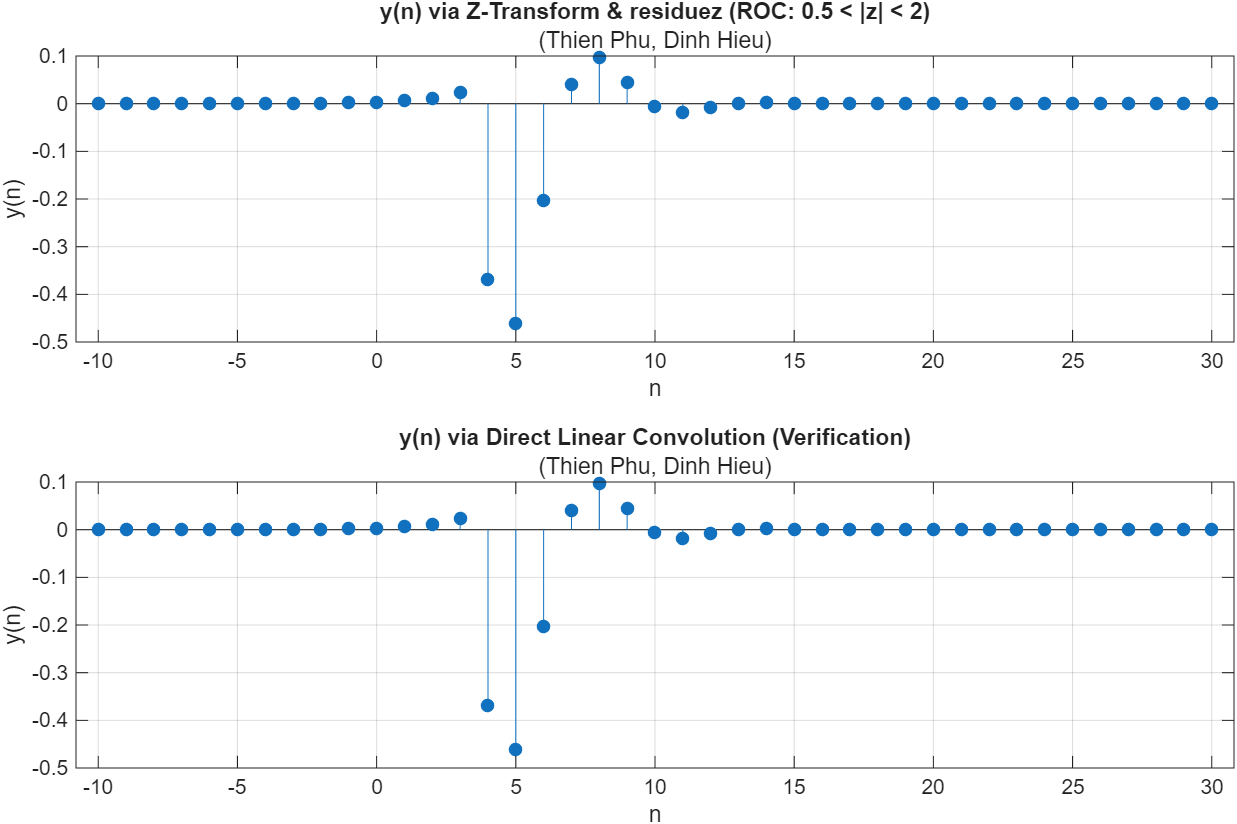
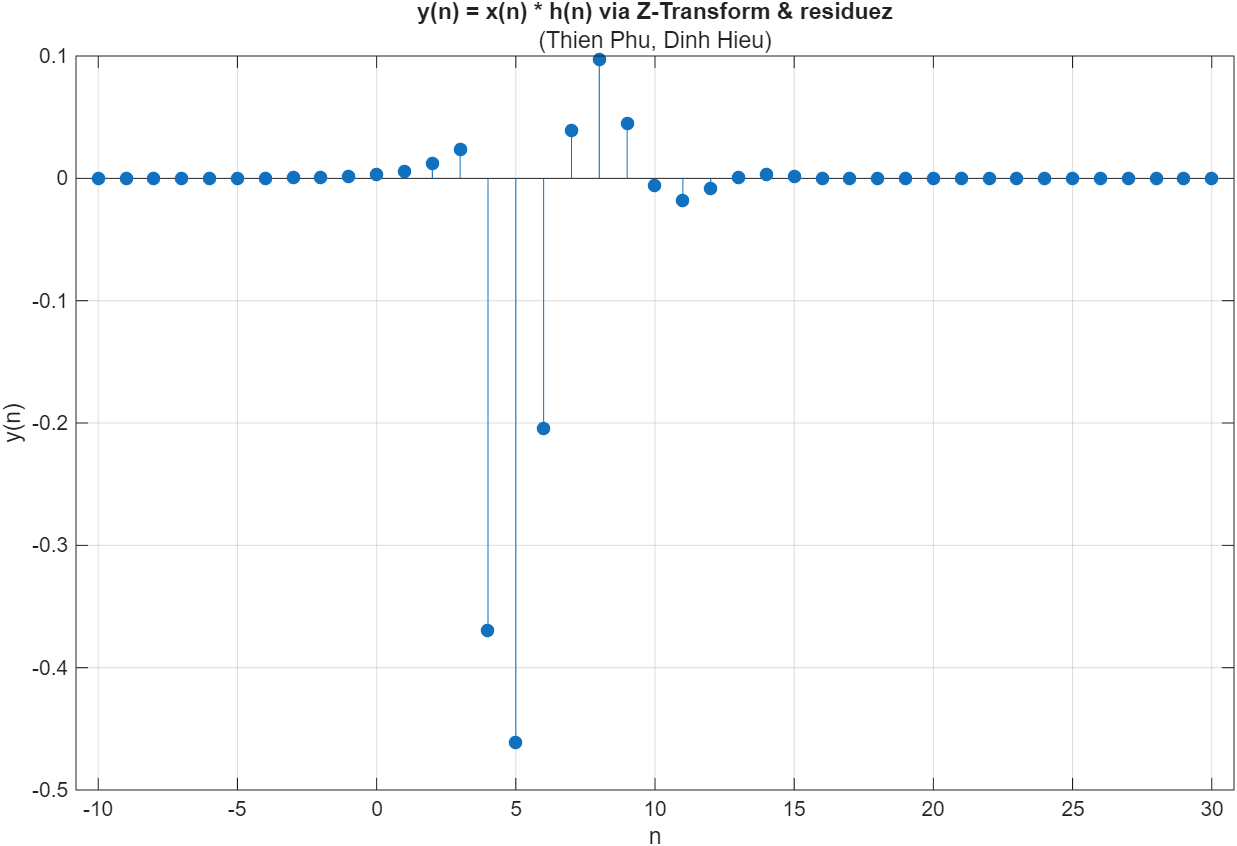
Fixed logic for ex3 and function conv

diff --git a/lab3/Code/lab3_ex3.m b/lab3/Code/lab3_ex3.m
@@ -22,9 +22,9 @@ disp('Direct terms k:');
 disp(k);
 
 n = -10:30;
-y_z = zeros(size(n));
+y = zeros(size(n));
 for m = 1:length(k)
-    y_z = y_z + k(m) * double(n == m - 1);
+    y = y + k(m) * double(n == m - 1);
 end
 
 mult = 1;
@@ -36,41 +36,18 @@ for i = 1:length(p)
     end
     if abs(p(i)) < 1
         if mult == 1
-            y_z = y_z + r(i) * (p(i) .^ n) .* double(n >= 0);
+            y = y + r(i) * (p(i) .^ n) .* double(n >= 0);
         else
-            y_z = y_z + r(i) * (n + 1) .* (p(i) .^ n) .* double(n >= 0);
+            y = y + r(i) * (n + 1) .* (p(i) .^ n) .* double(n >= 0);
         end
     else
-        y_z = y_z - r(i) * (p(i) .^ n) .* double(n <= -1);
+        y = y - r(i) * (p(i) .^ n) .* double(n <= -1);
     end
 end
-y_z = real(y_z);
-
-k_idx = 0:100;
-xk = (k_idx - 2) .* (0.5 .^ (k_idx - 2)) .* cos(pi * (k_idx - 2) / 3) .* double(k_idx >= 2);
-y_direct = zeros(size(n));
-for idx = 1:length(n)
-    m = n(idx) - k_idx;
-    hm = zeros(size(m));
-    pos = m >= 0;
-    neg = m <= -1;
-    hm(pos) = (1/3) .^ m(pos);
-    hm(neg) = (1/2) .^ (-m(neg));
-    y_direct(idx) = sum(xk .* hm);
-end
-
-disp('Max absolute error between Inverse Z-Transform and direct convolution:');
-disp(max(abs(y_z - y_direct)));
+y = real(y);
 
 figure('Name', 'Exercise 4.3 - Inverse Z-Transform', 'Color', 'w');
-subplot(2, 1, 1);
-stem(n, y_z, 'filled');
-title('y(n) via Z-Transform & residuez (ROC: 0.5 < |z| < 2)');
-subtitle(names_tag);
-xlabel('n'); ylabel('y(n)'); grid on;
-
-subplot(2, 1, 2);
-stem(n, y_direct, 'filled');
-title('y(n) via Direct Linear Convolution (Verification)');
+stem(n, y, 'filled');
+title('y(n) = x(n) * h(n) via Z-Transform & residuez');
 subtitle(names_tag);
 xlabel('n'); ylabel('y(n)'); grid on;
